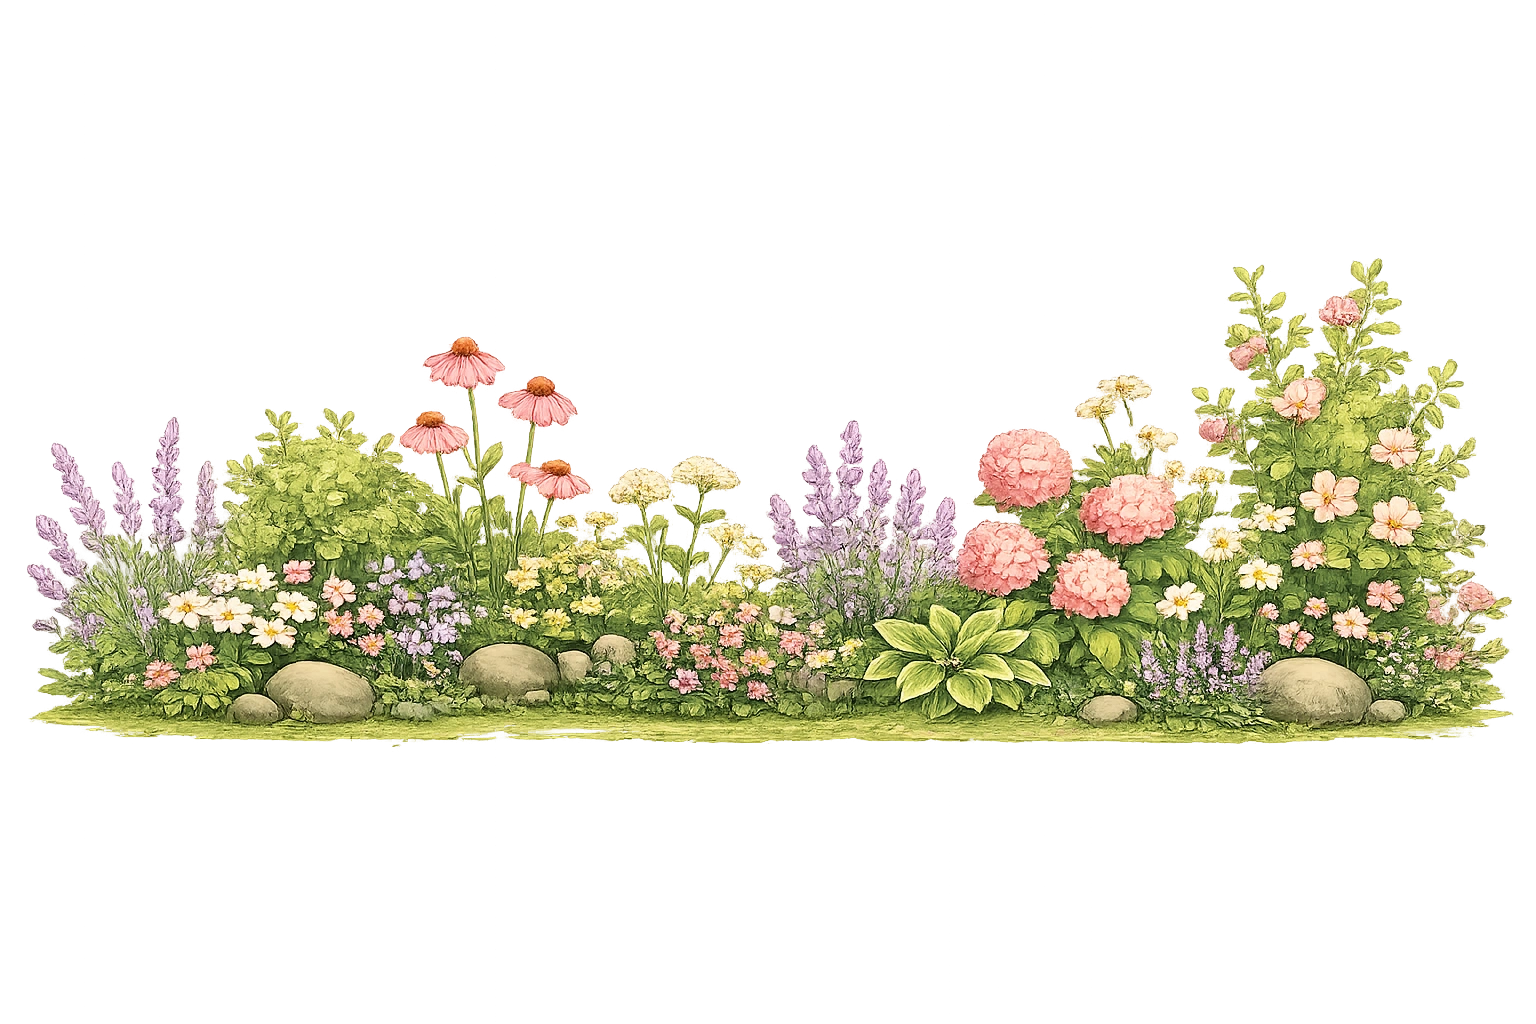
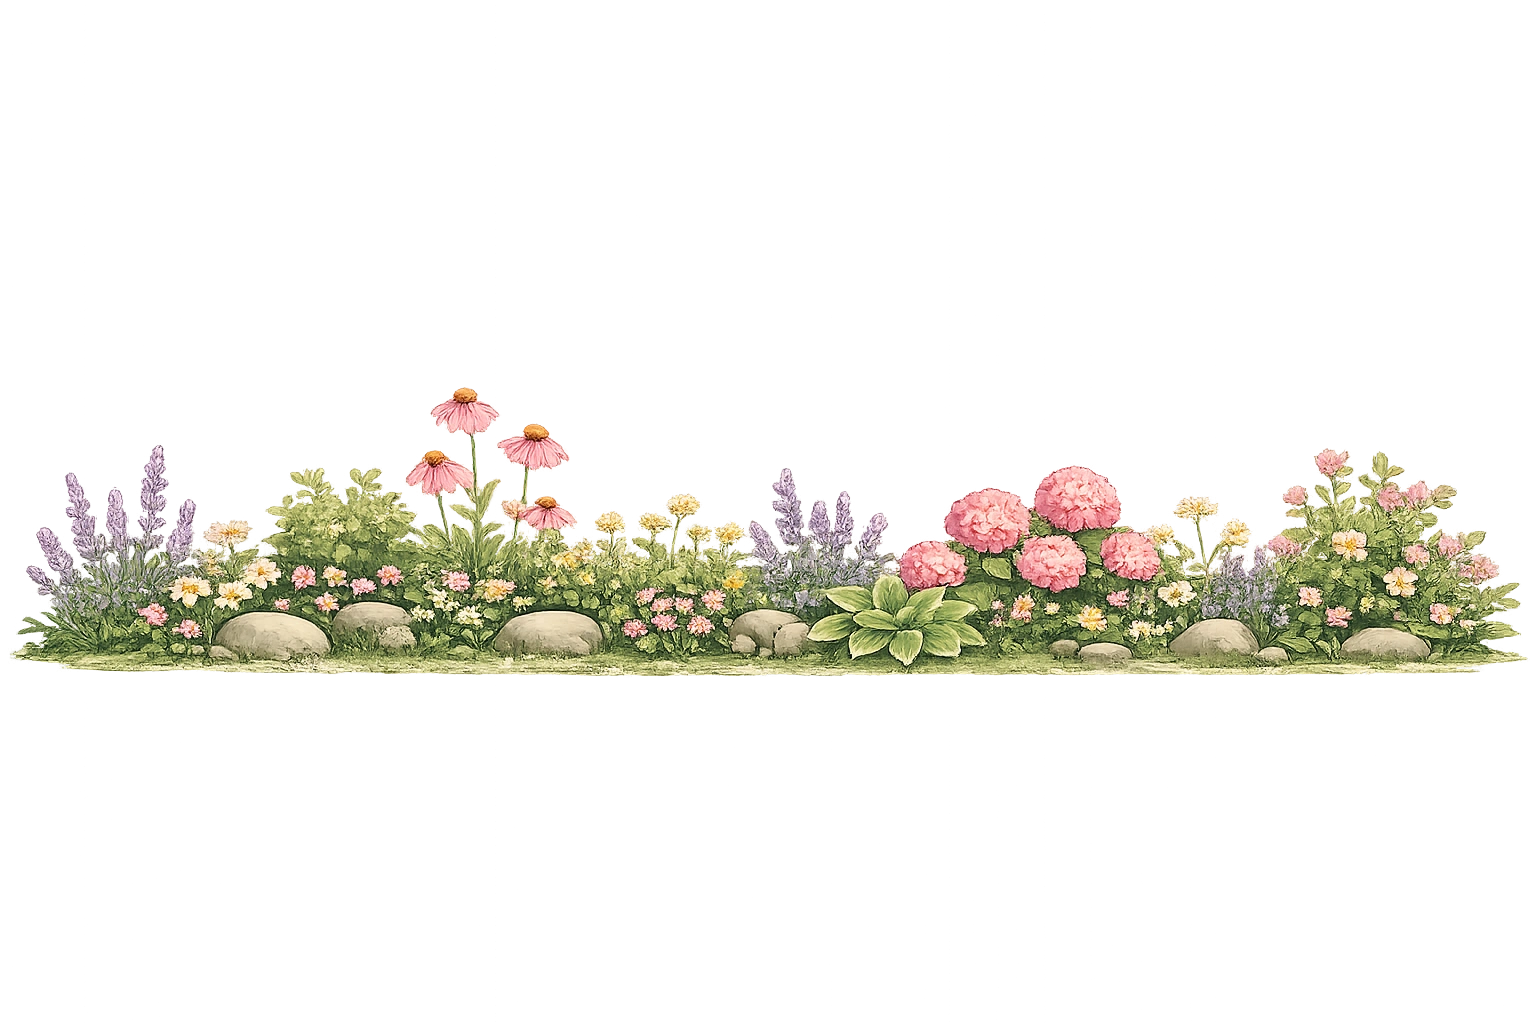
add butterfly

Changed region(s): [[0.0, 0.25, 1.0, 0.75]]

diff --git a/src/styles.css b/src/styles.css
@@ -163,7 +163,18 @@ input[type="number"]::-webkit-inner-spin-button {
   transform-origin: 38% 92%;
 }
 
+.butterfly-flight {
+  animation: butterfly-flight 9s ease-in-out infinite;
+}
+
+.butterfly-flutter {
+  animation: butterfly-flutter 520ms ease-in-out infinite;
+  transform-origin: center;
+}
+
 @media (prefers-reduced-motion: reduce) {
+  .butterfly-flight,
+  .butterfly-flutter,
   .rocking-grandma {
     animation: none;
   }
@@ -172,11 +183,44 @@ input[type="number"]::-webkit-inner-spin-button {
 @keyframes rocking-grandma {
   0%,
   100% {
-    transform: rotate(-3deg) translateY(0);
+    transform: rotate(-4.5deg) translateY(0);
   }
 
   50% {
-    transform: rotate(3deg) translateY(3px);
+    transform: rotate(4.5deg) translateY(5px);
+  }
+}
+
+@keyframes butterfly-flight {
+  0% {
+    transform: translate3d(0, 0, 0) rotate(-6deg);
+  }
+
+  25% {
+    transform: translate3d(1.2rem, -1.4rem, 0) rotate(8deg);
+  }
+
+  50% {
+    transform: translate3d(2.8rem, -0.3rem, 0) rotate(-3deg);
+  }
+
+  75% {
+    transform: translate3d(1rem, -2.2rem, 0) rotate(7deg);
+  }
+
+  100% {
+    transform: translate3d(0, 0, 0) rotate(-6deg);
+  }
+}
+
+@keyframes butterfly-flutter {
+  0%,
+  100% {
+    transform: scaleX(1) scaleY(1);
+  }
+
+  50% {
+    transform: scaleX(0.72) scaleY(1.08);
   }
 }
 

diff --git a/src/pages/OverviewPage.tsx b/src/pages/OverviewPage.tsx
@@ -94,13 +94,10 @@ export function OverviewPage({ dashboard, projectionYears }: OverviewPageProps) 
   return (
     <section className="relative flex min-h-[calc(100dvh-7rem)] overflow-hidden rounded-lg border border-slate-200/60 bg-linear-to-br from-white/75 via-sky-50/70 to-emerald-50/60 px-5 py-6 shadow-sm md:min-h-[calc(100dvh-3rem)] md:px-8">
       <div className="mx-auto flex w-full max-w-4xl flex-col items-center justify-center gap-5 pb-28 md:pb-36">
-        <div className="max-w-3xl text-center">
+        <div className="max-w-3xl text-center pb-5">
           <h1 className="text-4xl font-black tracking-normal text-slate-950 md:text-5xl">
             Track your financial future
           </h1>
-          <p className="mx-auto mt-3 max-w-xl text-sm leading-6 text-slate-600">
-            Get a quick overview of your financial situation and projections. Turn financial habits into measurable progress toward your long-term goals.
-          </p>
         </div>
 
         <div className="grid w-full max-w-md grid-cols-2 gap-3">
@@ -147,17 +144,25 @@ export function OverviewPage({ dashboard, projectionYears }: OverviewPageProps) 
         </div>
       </div>
       <img
-        className="pointer-events-none absolute -bottom-24 left-1/2 z-10 w-72 -translate-x-1/2 object-contain sm:w-96 md:-bottom-28 md:w-[30rem] xl:w-[34rem]"
+        className="pointer-events-none absolute -bottom-20 left-1/2 z-10 w-60 -translate-x-1/2 object-contain opacity-85 sm:w-72 md:w-96 xl:w-md"
         src="/images/vegetation.webp"
         alt=""
         aria-hidden="true"
       />
       <img
-        className="pointer-events-none absolute -bottom-2 right-2 z-20 w-48 object-contain sm:w-64 md:-bottom-1 md:right-6 md:w-80 xl:w-96"
+        className="pointer-events-none absolute -bottom-2 right-2 z-20 w-48 object-contain opacity-85 sm:w-64 md:-bottom-1 md:right-6 md:w-80 xl:w-96"
         src="/images/dream-house.webp"
         alt=""
         aria-hidden="true"
       />
+      <div className="butterfly-flight pointer-events-none absolute bottom-32 right-48 z-30 w-12 sm:bottom-40 sm:right-56 sm:w-14 md:right-72 md:w-16 xl:right-88">
+        <img
+          className="butterfly-flutter block w-full object-contain"
+          src="/images/butterfly.webp"
+          alt=""
+          aria-hidden="true"
+        />
+      </div>
     </section>
   );
 }